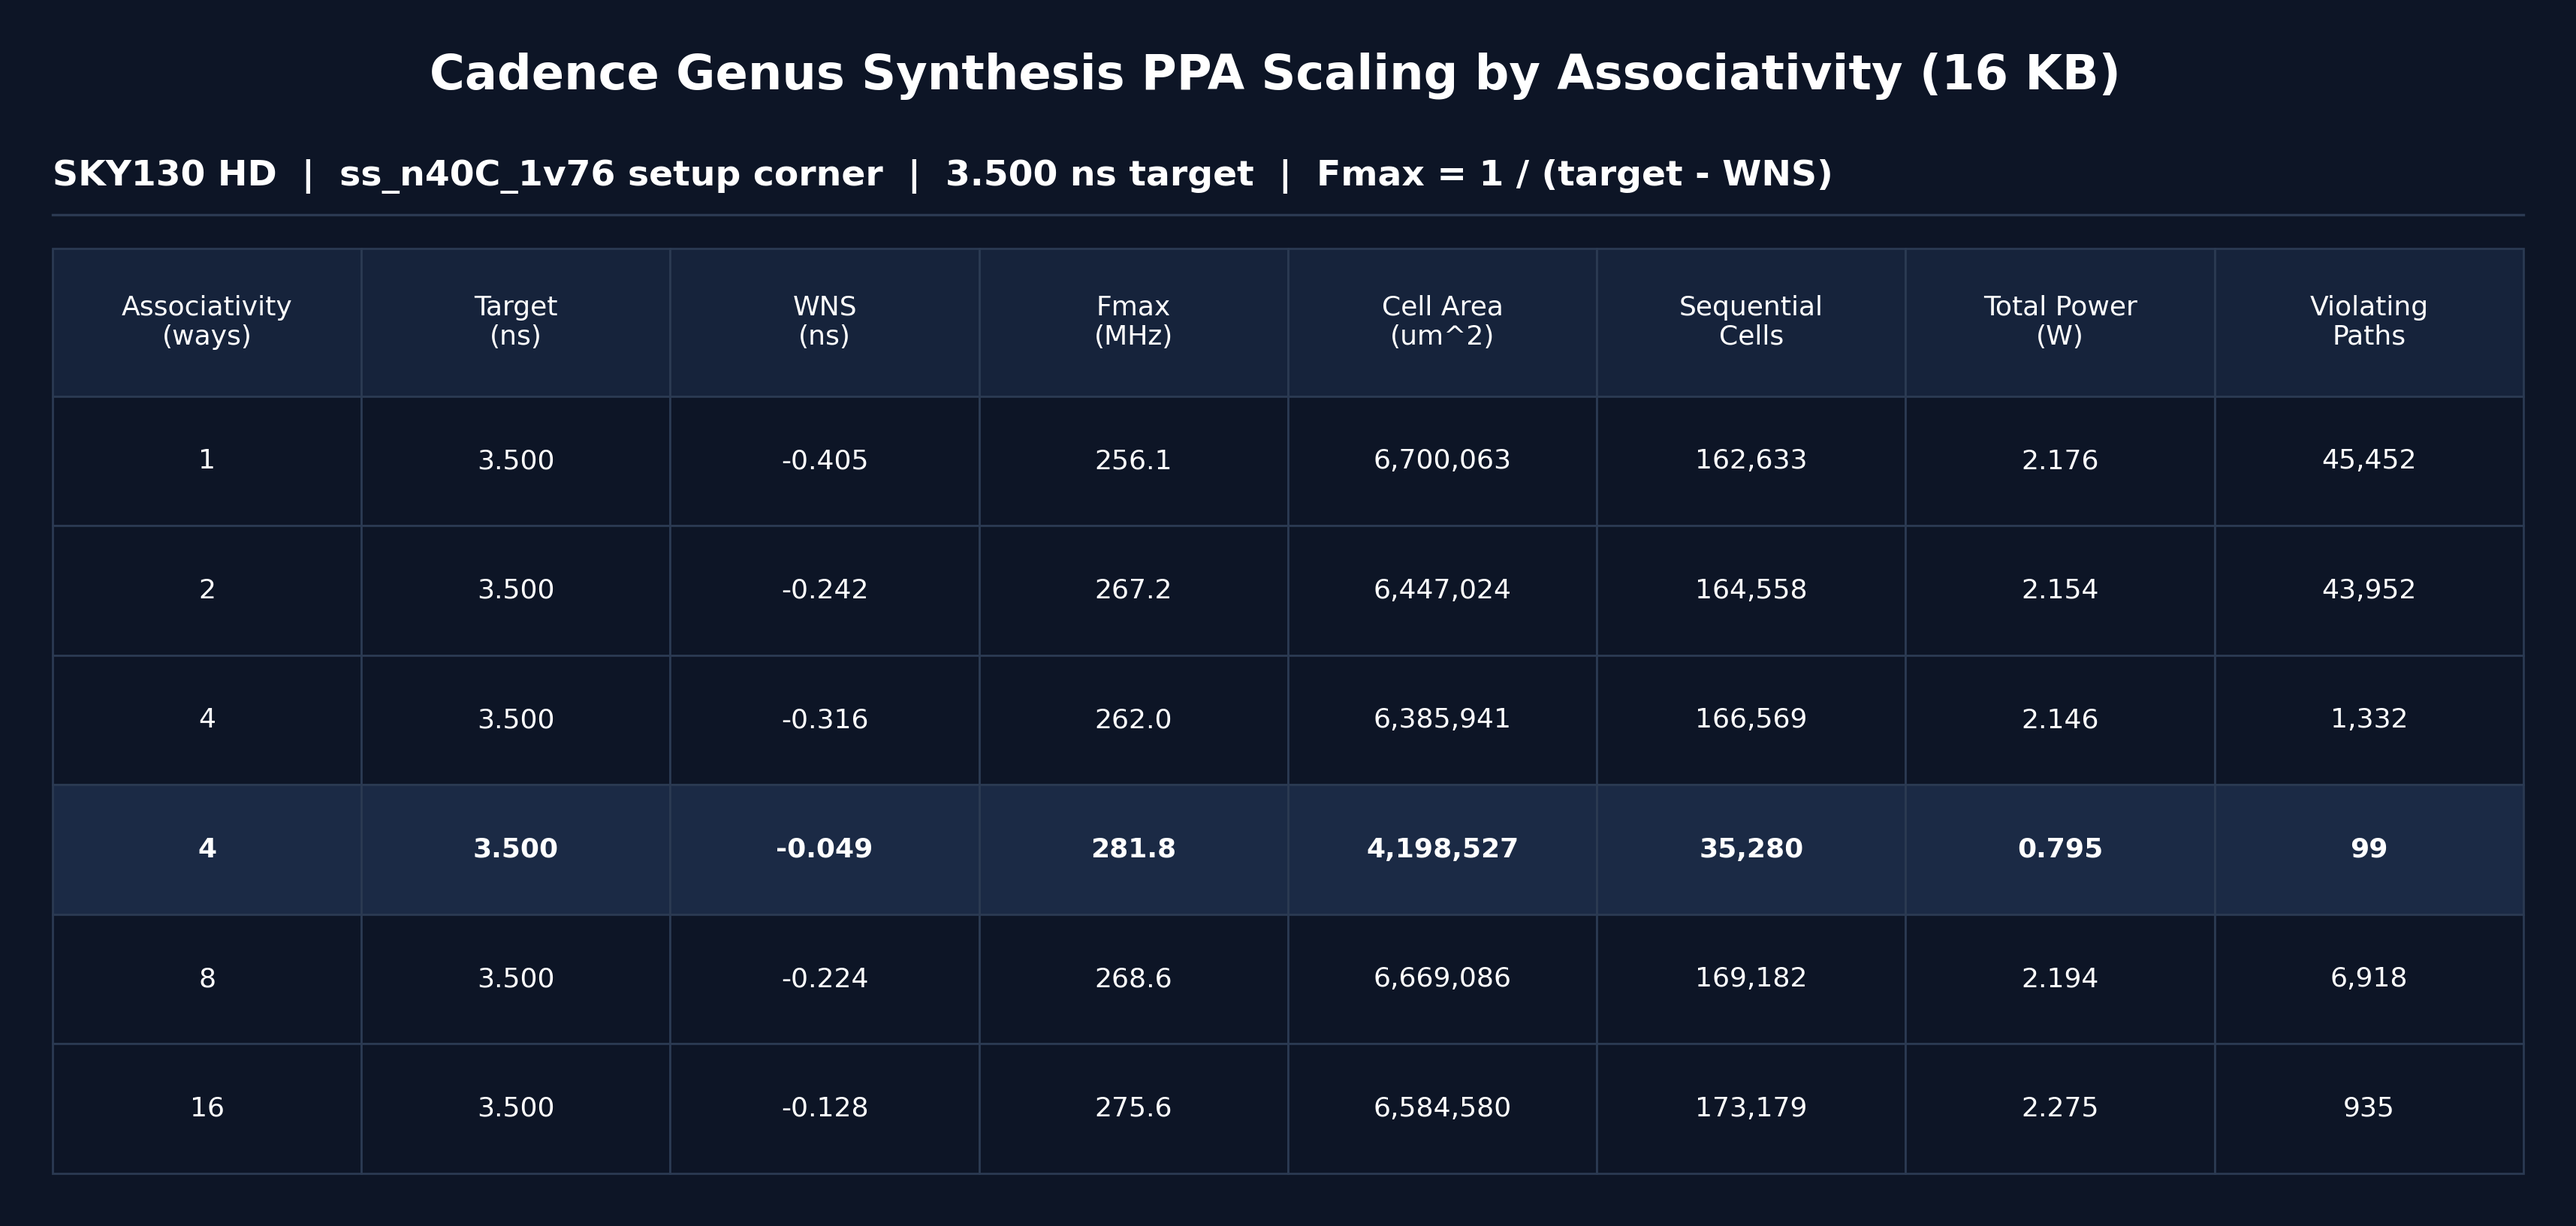
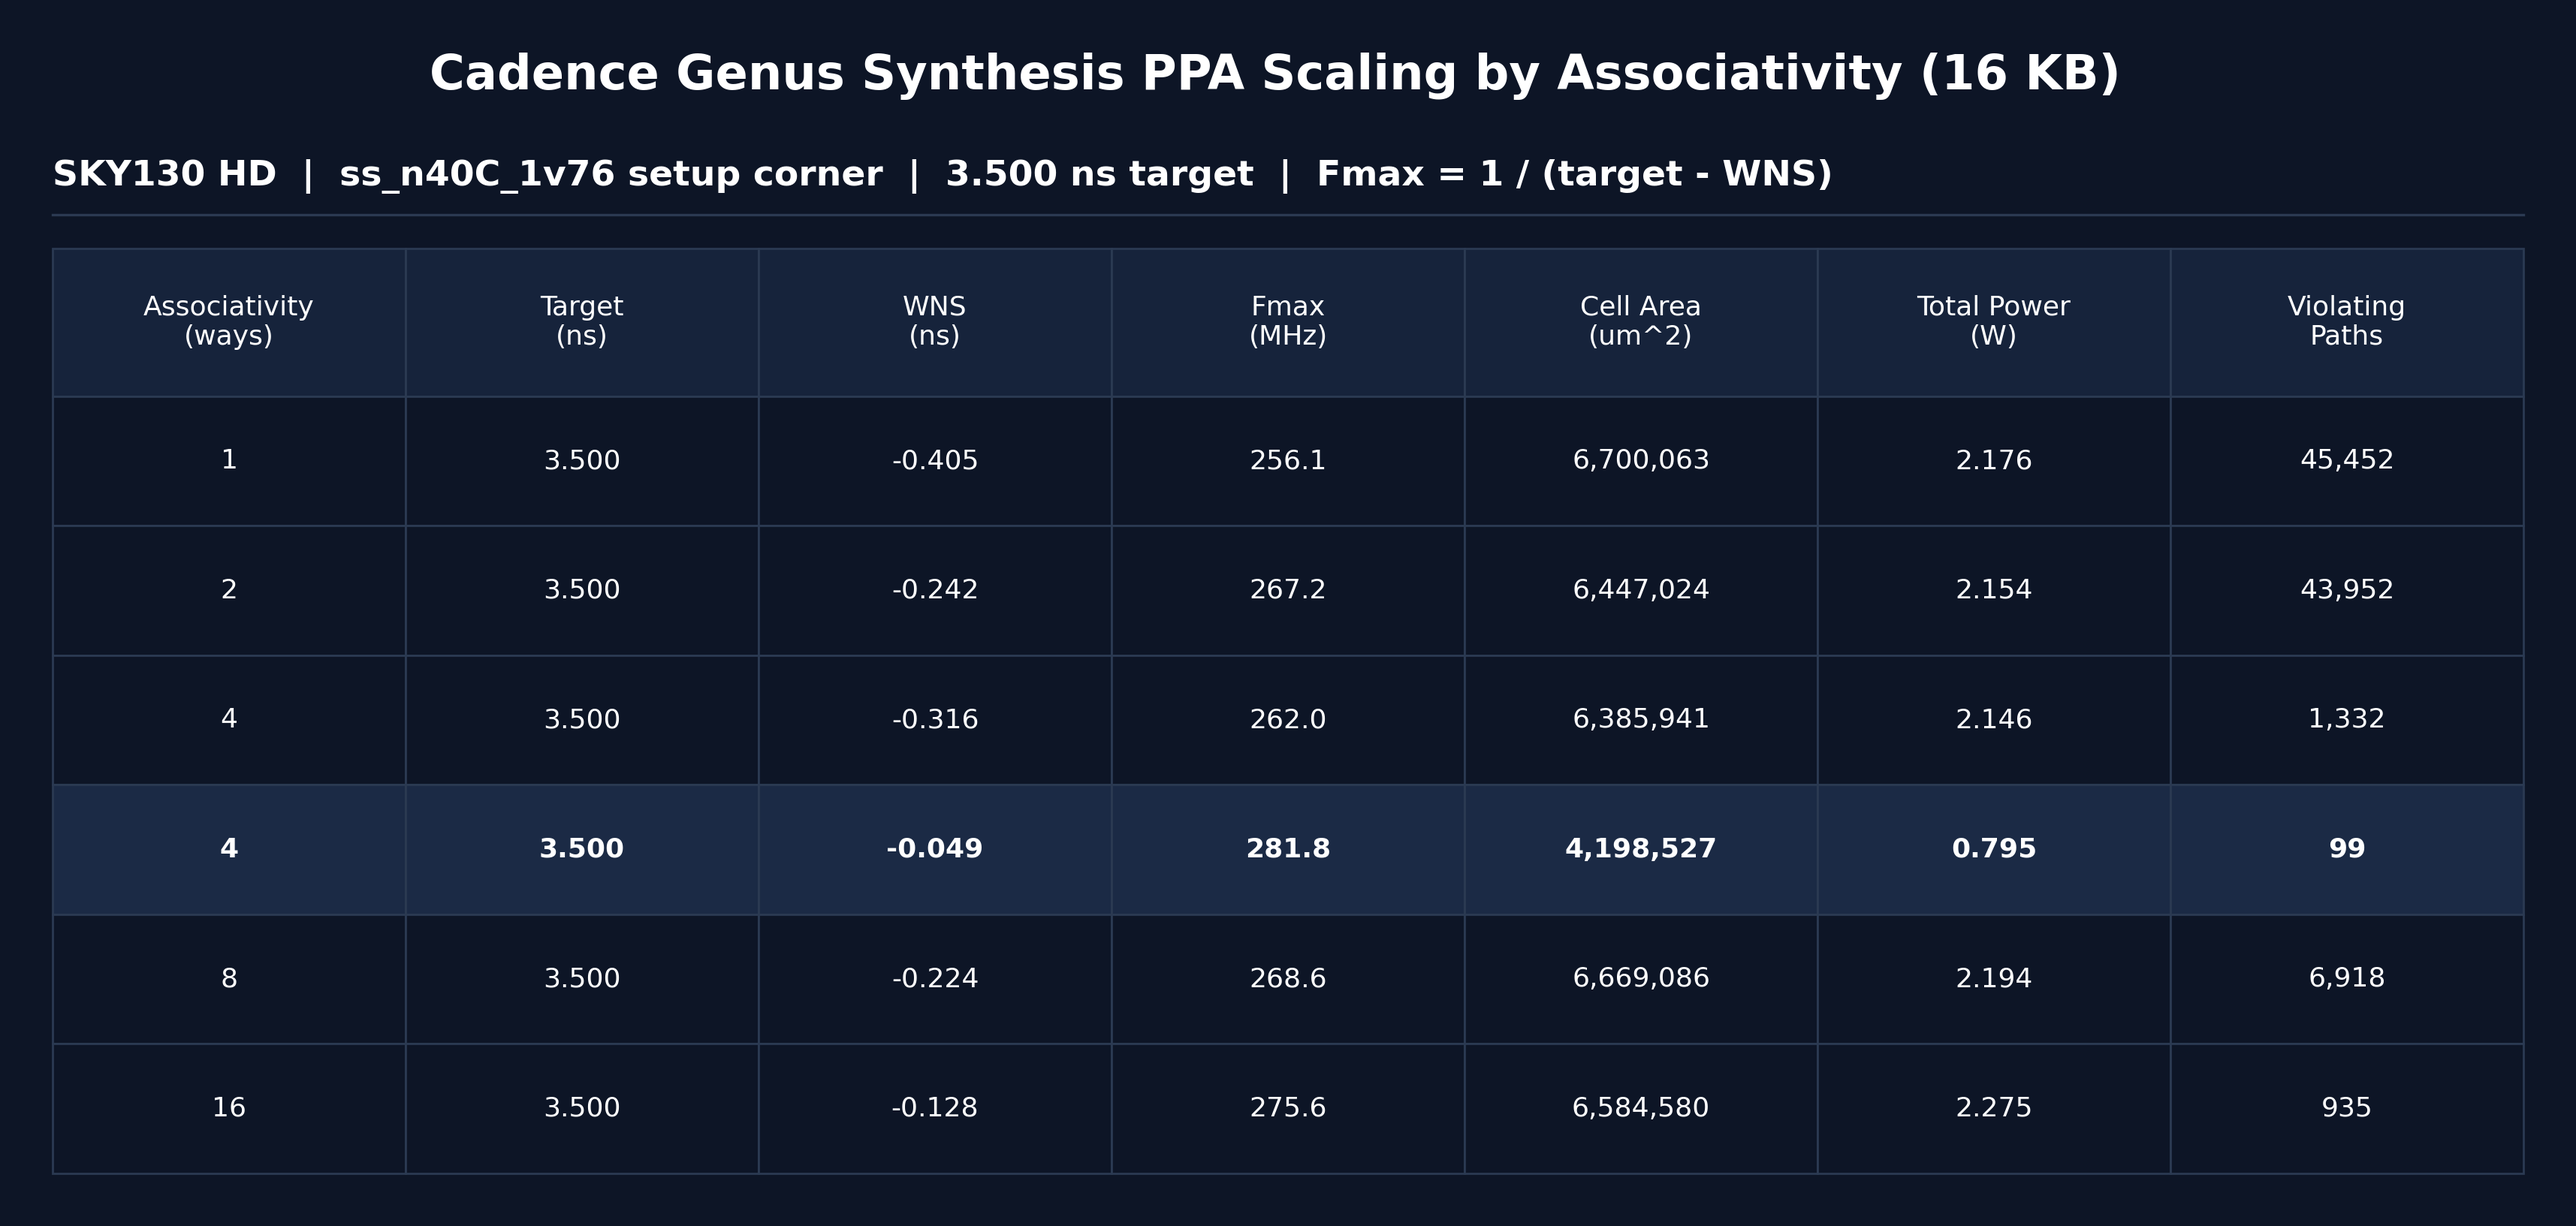
PPA chart: drop the sequential-cells column
Claude-Session: https://claude.ai/code/session_013GB2gB1udYc1ALkX84Z6Vt

diff --git a/asic/collect_ppa.py b/asic/collect_ppa.py
@@ -338,13 +338,12 @@ def make_png(tool, rows, path, cache_kb):
     hdr, best_bg = "#16233b", "#1b2a45"
 
     cols = ["Associativity\n(ways)", "Target\n(ns)", "WNS\n(ns)", "Fmax\n(MHz)",
-            "Cell Area\n(um^2)", "Sequential\nCells",
+            "Cell Area\n(um^2)",
             "Total Power\n(W)", "Violating\nPaths"]
     cells = [[f"{r['assoc']}",
               fmt(r.get("period"), ".3f"), fmt(r.get("slack"), ".3f"),
               fmt(r.get("fmax"), ".1f"),
               fmt(r.get("area"), ",.0f"),
-              fmt(r.get("seq"), ","),
               fmt(r.get("total_power"), ".3f"), fmt(r.get("violating"), ",")]
              for r in rows]
 
